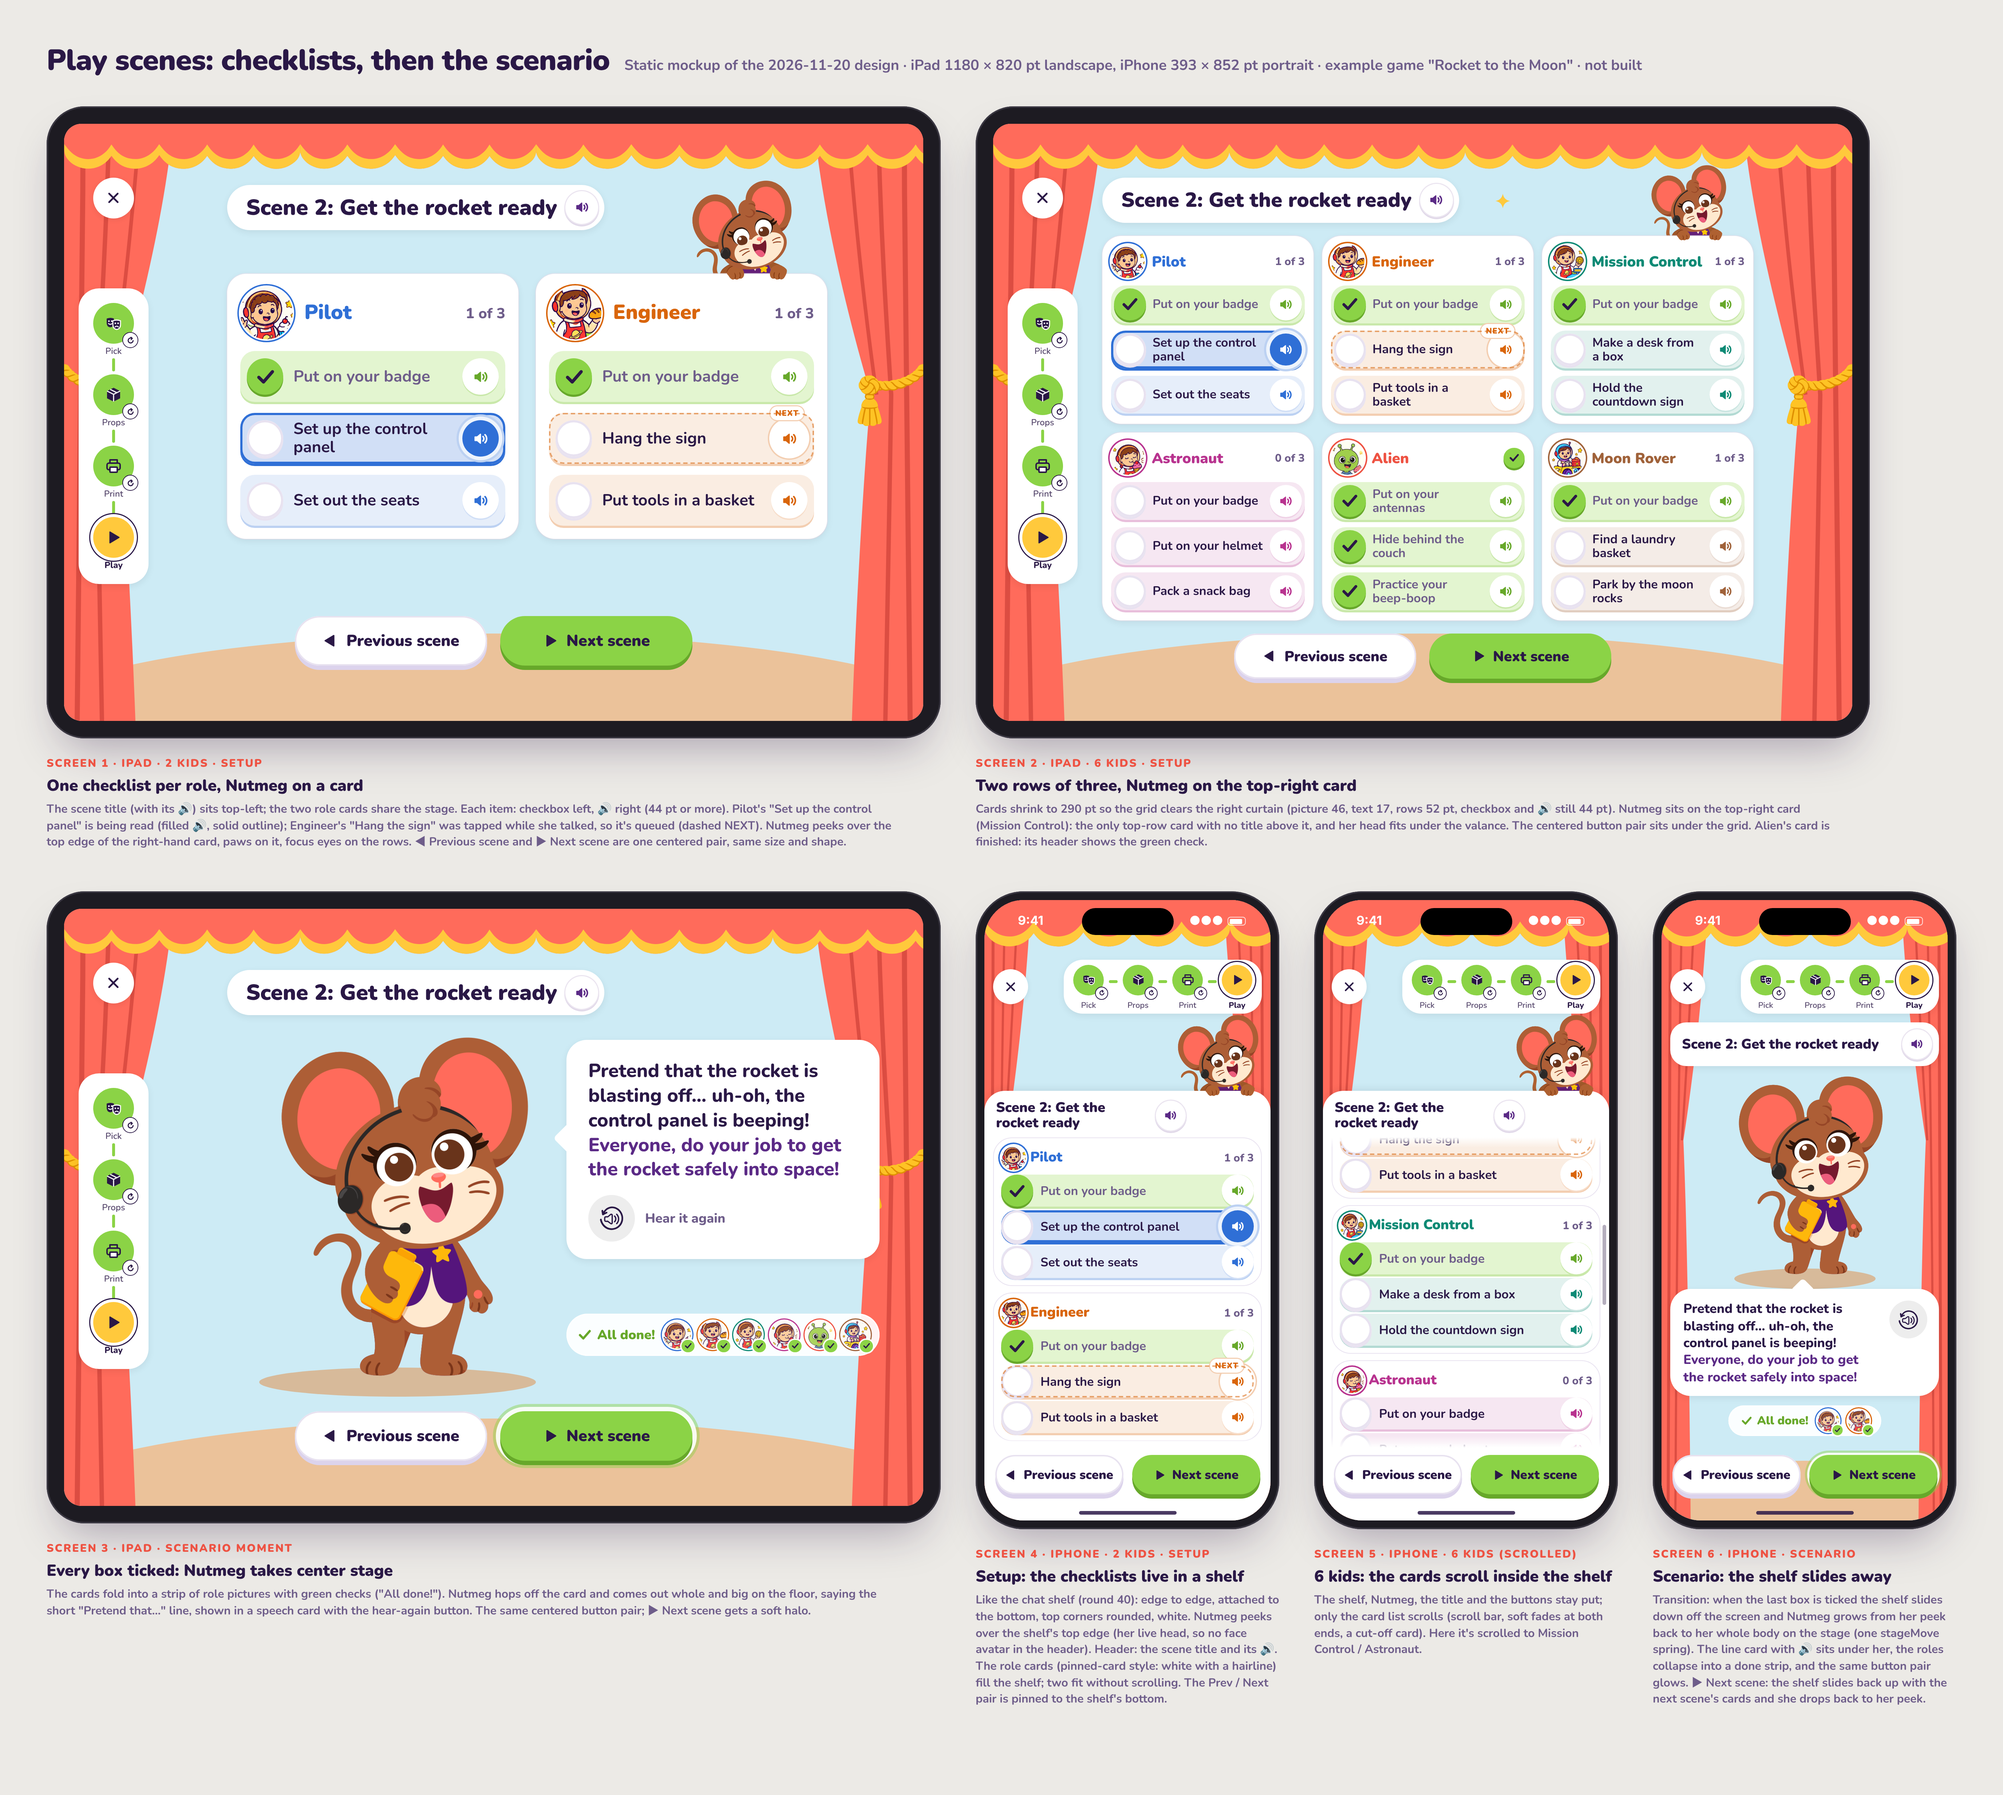
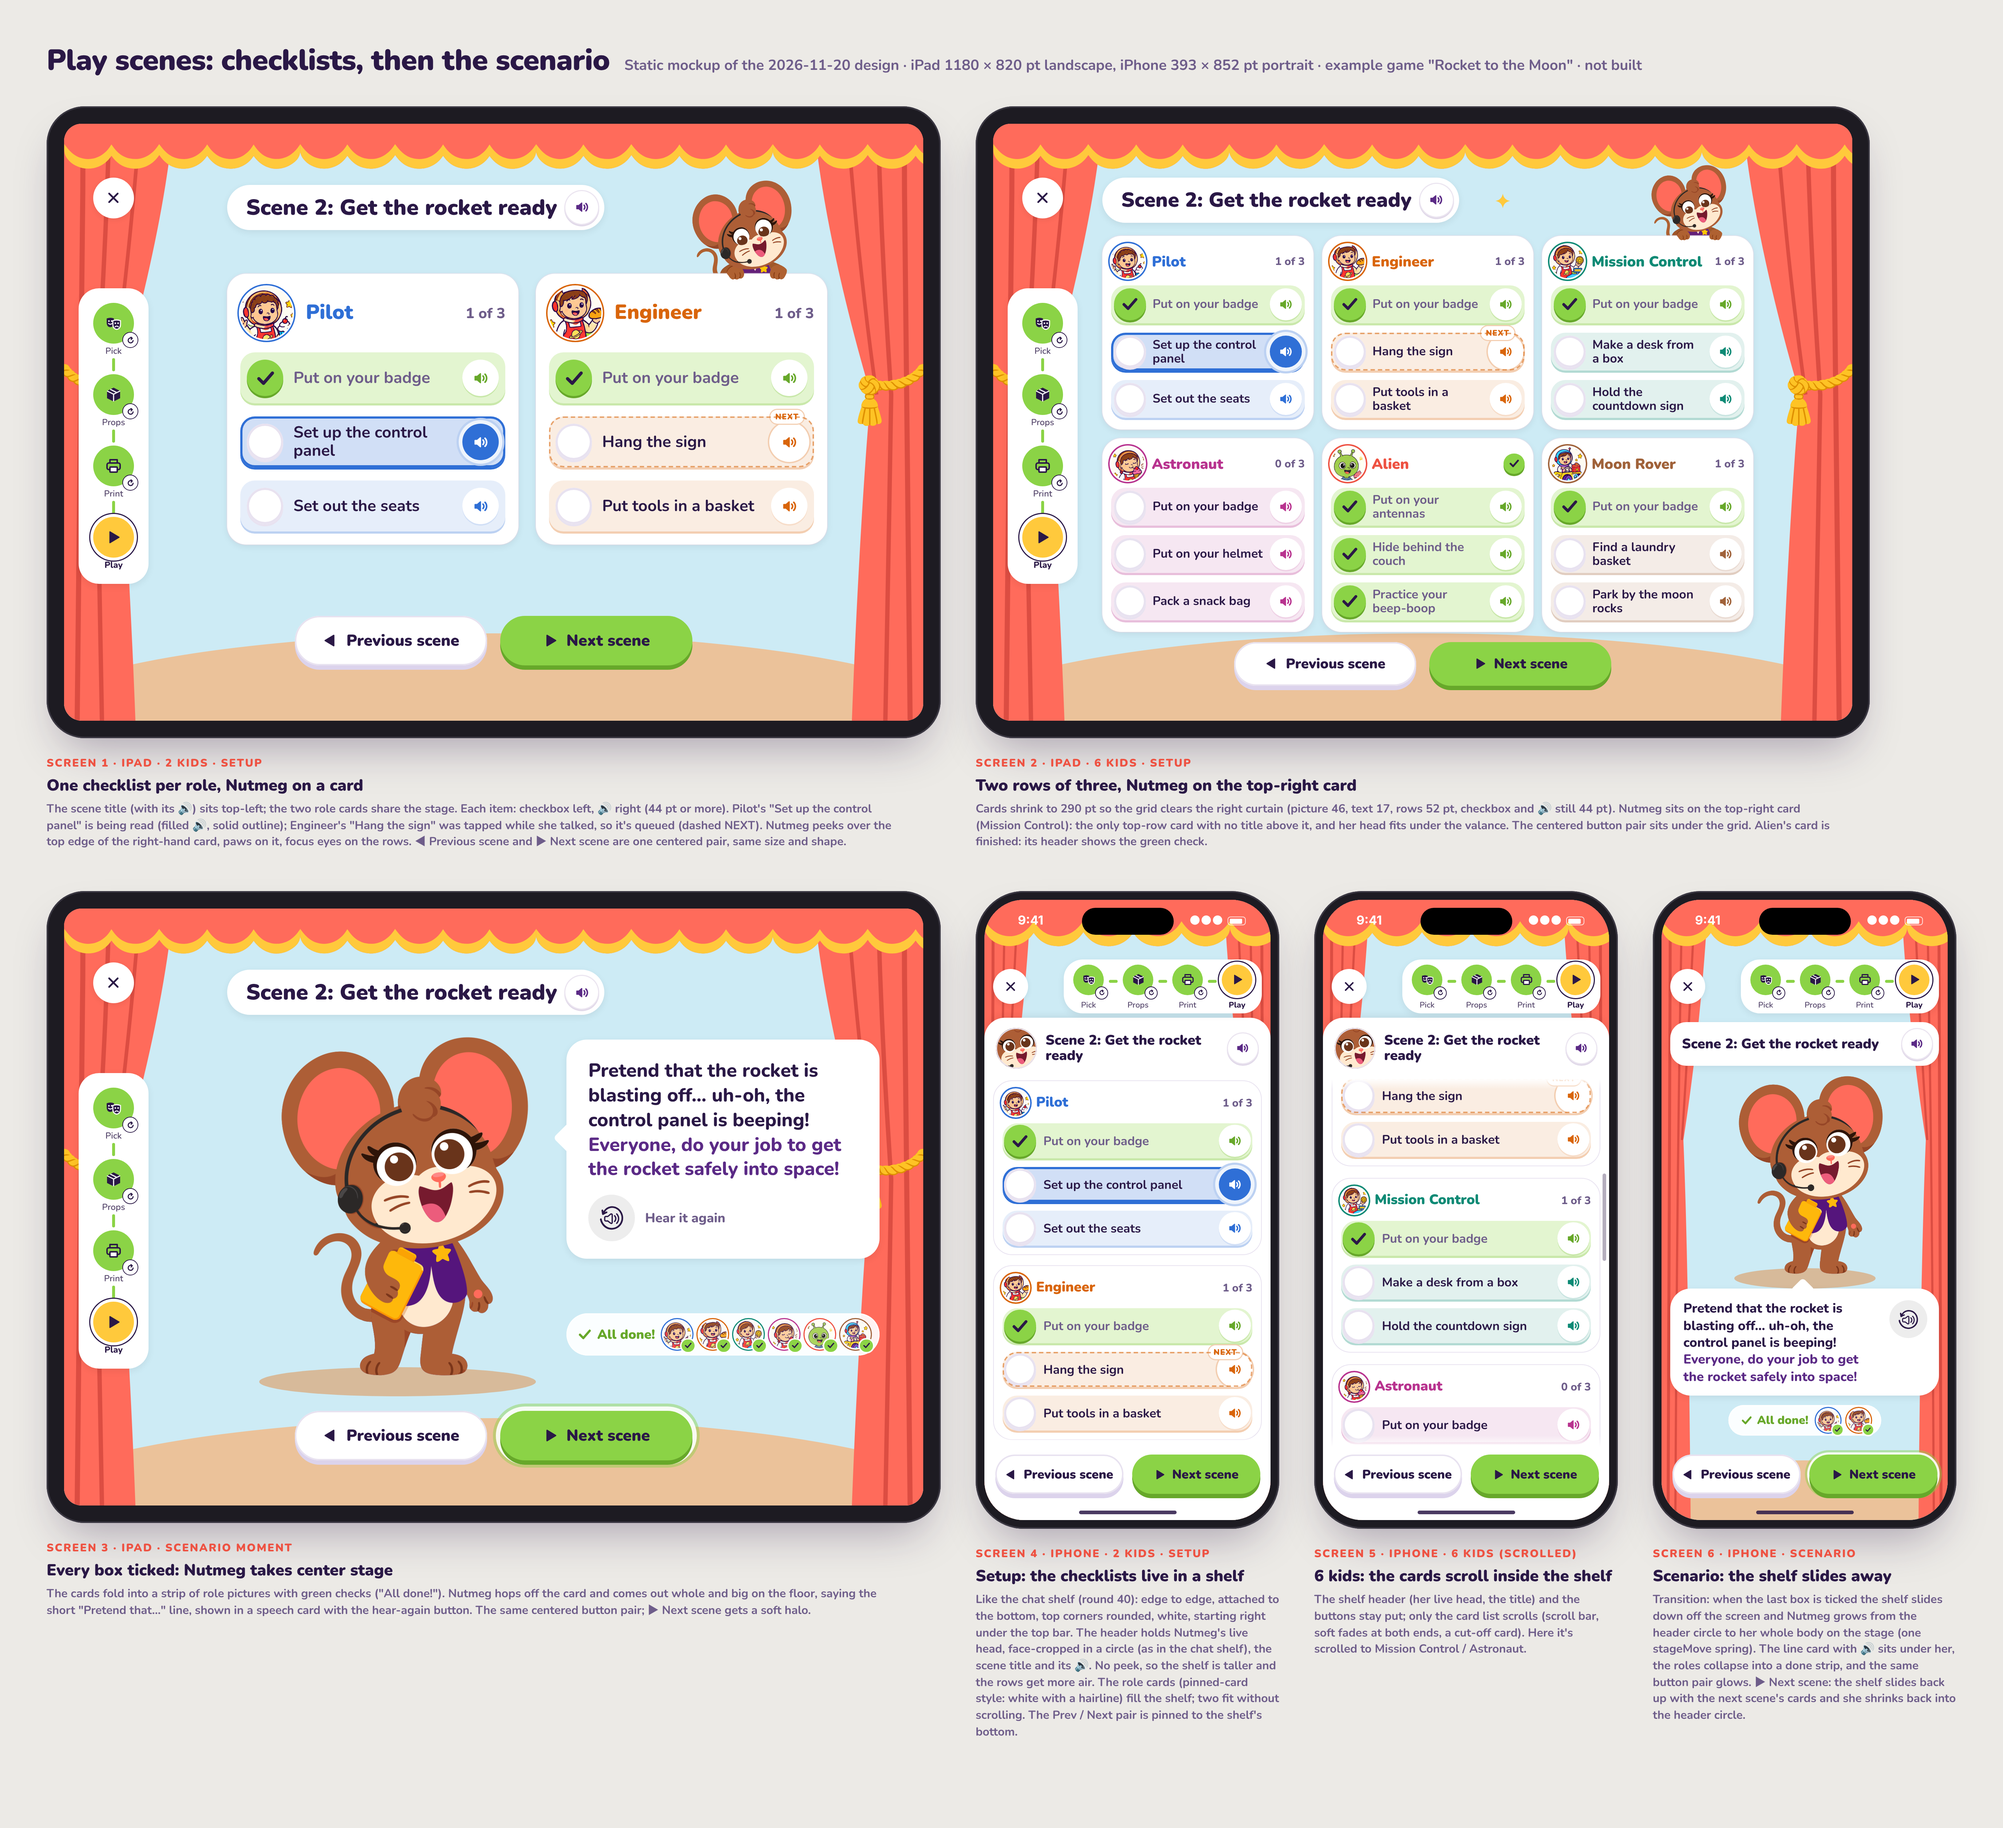
Mockups v3: iPhone Nutmeg circle by the title, taller shelf, roomier rows
Claude-Session: https://claude.ai/code/session_01FLwTkaKeaGmxKG6tqX7cE2

Changed region(s): [[0.0, 0.0312, 0.9945, 0.9684], [0.0311, 0.1562, 0.0622, 0.3436], [0.4351, 0.1874, 0.4662, 0.2187]]

diff --git a/design/mockups/checklist-scenes/index.html b/design/mockups/checklist-scenes/index.html
@@ -198,15 +198,15 @@ body{background:#ECEAE6;font-family:"SF Pro Rounded",ui-rounded,"Nunito",system-
     <div class="col phonecol" id="c4"><div class="phone" id="s4"><div class="screen"></div></div>
       <div class="num">Screen 4 · iPhone · 2 kids · setup</div>
       <div class="cap"><h2>Setup: the checklists live in a shelf</h2>
-      <p>Like the chat shelf (round 40): edge to edge, attached to the bottom, top corners rounded, white. Nutmeg peeks over the shelf's top edge (her live head, so no face avatar in the header). Header: the scene title and its 🔊. The role cards (pinned-card style: white with a hairline) fill the shelf; two fit without scrolling. The Prev / Next pair is pinned to the shelf's bottom.</p></div></div>
+      <p>Like the chat shelf (round 40): edge to edge, attached to the bottom, top corners rounded, white, starting right under the top bar. The header holds Nutmeg's live head, face-cropped in a circle (as in the chat shelf), the scene title and its 🔊. No peek, so the shelf is taller and the rows get more air. The role cards (pinned-card style: white with a hairline) fill the shelf; two fit without scrolling. The Prev / Next pair is pinned to the shelf's bottom.</p></div></div>
     <div class="col phonecol" id="c5"><div class="phone" id="s5"><div class="screen"></div></div>
       <div class="num">Screen 5 · iPhone · 6 kids (scrolled)</div>
       <div class="cap"><h2>6 kids: the cards scroll inside the shelf</h2>
-      <p>The shelf, Nutmeg, the title and the buttons stay put; only the card list scrolls (scroll bar, soft fades at both ends, a cut-off card). Here it's scrolled to Mission Control / Astronaut.</p></div></div>
+      <p>The shelf header (her live head, the title) and the buttons stay put; only the card list scrolls (scroll bar, soft fades at both ends, a cut-off card). Here it's scrolled to Mission Control / Astronaut.</p></div></div>
     <div class="col phonecol" id="c6"><div class="phone" id="s6"><div class="screen"></div></div>
       <div class="num">Screen 6 · iPhone · scenario</div>
       <div class="cap"><h2>Scenario: the shelf slides away</h2>
-      <p>Transition: when the last box is ticked the shelf slides down off the screen and Nutmeg grows from her peek back to her whole body on the stage (one stageMove spring). The line card with 🔊 sits under her, the roles collapse into a done strip, and the same button pair glows. ▶ Next scene: the shelf slides back up with the next scene's cards and she drops back to her peek.</p></div></div>
+      <p>Transition: when the last box is ticked the shelf slides down off the screen and Nutmeg grows from the header circle to her whole body on the stage (one stageMove spring). The line card with 🔊 sits under her, the roles collapse into a done strip, and the same button pair glows. ▶ Next scene: the shelf slides back up with the next scene's cards and she shrinks back into the header circle.</p></div></div>
   </div>
 </div>
 
@@ -233,9 +233,9 @@ function pale(c,t){const [r,g,b]=hex(c);return `rgb(${[r,g,b].map(v=>Math.round(
 
 // sizes: L = iPad 2 kids, M = iPad 6 kids, S = iPhone
 const SZ = {
-  L:{w:400,pad:18,pic:72,name:28,hgap:16,row:70,chk:50,spk:50,tx:22,gap:12,rpad:9,ig:14},
-  M:{w:290,pad:12,pic:46,name:20,hgap:10,row:52,chk:44,spk:44,tx:17,gap:7,rpad:4,ig:9},
-  P:{w:369,pad:10,pic:34,name:19,hgap:6,row:44,chk:44,spk:44,tx:17,gap:2,rpad:0,ig:10},
+  L:{w:400,pad:18,pic:72,name:28,hgap:18,row:70,chk:50,spk:50,tx:22,gap:15,rpad:9,ig:14},
+  M:{w:290,pad:12,pic:46,name:20,hgap:10,row:52,chk:44,spk:44,tx:17,gap:10,rpad:4,ig:9},
+  P:{w:369,pad:12,pic:36,name:19,hgap:10,row:48,chk:44,spk:44,tx:17,gap:9,rpad:2,ig:10},
   S:{w:369,pad:12,pic:40,name:20,hgap:10,row:48,chk:44,spk:44,tx:17.5,gap:3,rpad:2,ig:10},
 };
 function card(id,size,x,y,opt={}){
@@ -319,12 +319,12 @@ $('s1').innerHTML = ipadStage() + ipadTitle(224,84,TITLE)
 
 // 2. iPad, 6 kids: Nutmeg on the top-right card (Mission Control)
 {
-  const xs=[150,452,754], y1=154, y2=424, h=258;
+  const xs=[150,452,754], y1=154, y2=432, h=266;
   $('s2').innerHTML = ipadStage() + ipadTitle(150,74,TITLE,28)
     + card('pilot','M',xs[0],y1,{h}) + card('engineer','M',xs[1],y1,{h}) + card('mission','M',xs[2],y1,{h})
     + card('astro','M',xs[0],y2,{h}) + card('alien','M',xs[1],y2,{h}) + card('rover','M',xs[2],y2,{h})
     + peek(906,y1,104,{turn:-9})
-    + navPair(1180,700,250,62,18);
+    + navPair(1180,712,250,60,18);
 }
 
 // 3. iPad scenario
@@ -345,23 +345,30 @@ $('s1').innerHTML = ipadStage() + ipadTitle(224,84,TITLE)
 
 // iPhone: the checklist shelf (like the chat shelf: edge to edge, top corners rounded, under the top bar),
 // Nutmeg's peek on its top edge, the cards scroll inside, the Prev/Next pair pinned at its bottom.
-const SHELF=262;
+// Nutmeg's live head, face-cropped in a circle (PTNutmegAvatar: face center (628, 532), span 490 canvas px)
+function avatar(d){
+  const k=d/490, W=1178*k, H=1335*k, L=d/2-628*k, T=d/2-532*k;
+  const lay=['nutmeg-head-base','nutmeg-face-talking','nutmeg-mouth-open','nutmeg-headset'].map(n=>`<img src="${IMG+n}.svg" style="position:absolute;left:${L}px;top:${T}px;width:${W}px;height:${H}px">`).join('');
+  return `<span style="position:relative;flex:none;width:${d}px;height:${d}px;border-radius:50%;overflow:hidden;background:var(--sky);box-shadow:inset 0 0 0 1.5px var(--line)">${lay}<span style="position:absolute;inset:0;border-radius:50%;box-shadow:inset 0 0 0 1.5px var(--line)"></span></span>`;
+}
+// iPhone: the checklist shelf (like the chat shelf: edge to edge, top corners rounded, right under the top bar),
+// her live head in the header beside the title, the cards scroll inside, the Prev/Next pair pinned at its bottom.
+const SHELF=162;
 function shelf(inner,scrolled){
-  const top=SHELF, listTop=top+64, listBottom=752;
+  const top=SHELF, listTop=top+84, listBottom=752;
   return `<div style="position:absolute;left:0;right:0;top:${top}px;bottom:0;background:#fff;border-radius:28px 28px 0 0;box-shadow:0 -3px 10px rgba(0,0,0,.07);z-index:10"></div>
-    <div class="title" style="left:16px;top:${top+12}px;width:262px;padding:0;box-shadow:none;background:none;white-space:normal;font-size:19px;gap:8px;z-index:20"><span class="t" style="flex:1">${TITLE}</span>${spk(44)}</div>
+    <div class="title" style="left:16px;right:16px;top:${top+14}px;padding:0;box-shadow:none;background:none;white-space:normal;font-size:19px;gap:12px;z-index:20">${avatar(56)}<span class="t" style="flex:1">${TITLE}</span>${spk(44)}</div>
     <div style="position:absolute;left:0;top:${listTop}px;width:393px;height:${listBottom-listTop}px;overflow:hidden;z-index:11"><div style="position:relative">${inner}</div></div>
-    ${scrolled?`<div class="scrollbar" style="right:4px;top:${listTop+120}px;height:110px"></div>
+    ${scrolled?`<div class="scrollbar" style="right:4px;top:${listTop+130}px;height:120px"></div>
       <div class="fade" style="left:0;right:0;top:${listTop}px;height:14px;background:linear-gradient(#fff,rgba(255,255,255,0))"></div>`:''}
-    <div class="fade" style="left:0;right:0;top:${listBottom-16}px;height:16px;background:linear-gradient(rgba(255,255,255,0),#fff)"></div>
-    ${peek(268,top,112,{turn:-9,zb:9,zf:21})}`;
+    <div class="fade" style="left:0;right:0;top:${listBottom-16}px;height:16px;background:linear-gradient(rgba(255,255,255,0),#fff)"></div>`;
 }
 const pin={cls:'pinned'};
 $('s4').innerHTML = phoneStage()
-  + shelf(card('pilot','P',12,0,pin)+card('engineer','P',12,213,pin),false)
+  + shelf(card('pilot','P',12,2,pin)+card('engineer','P',12,256,pin),false)
   + `<div style="position:absolute;inset:0;z-index:22;pointer-events:none">${navPair(393,762,176,54,12)}</div>`;
 $('s5').innerHTML = phoneStage()
-  + shelf(card('engineer','P',12,-120,pin)+card('mission','P',12,93,pin)+card('astro','P',12,306,pin),true)
+  + shelf(card('engineer','P',12,-120,pin)+card('mission','P',12,136,pin)+card('astro','P',12,392,pin),true)
   + `<div style="position:absolute;inset:0;z-index:22;pointer-events:none">${navPair(393,762,176,54,12)}</div>`;
 
 // 6. iPhone scenario (the shelf has slid away; Nutmeg grows back onto the stage)
